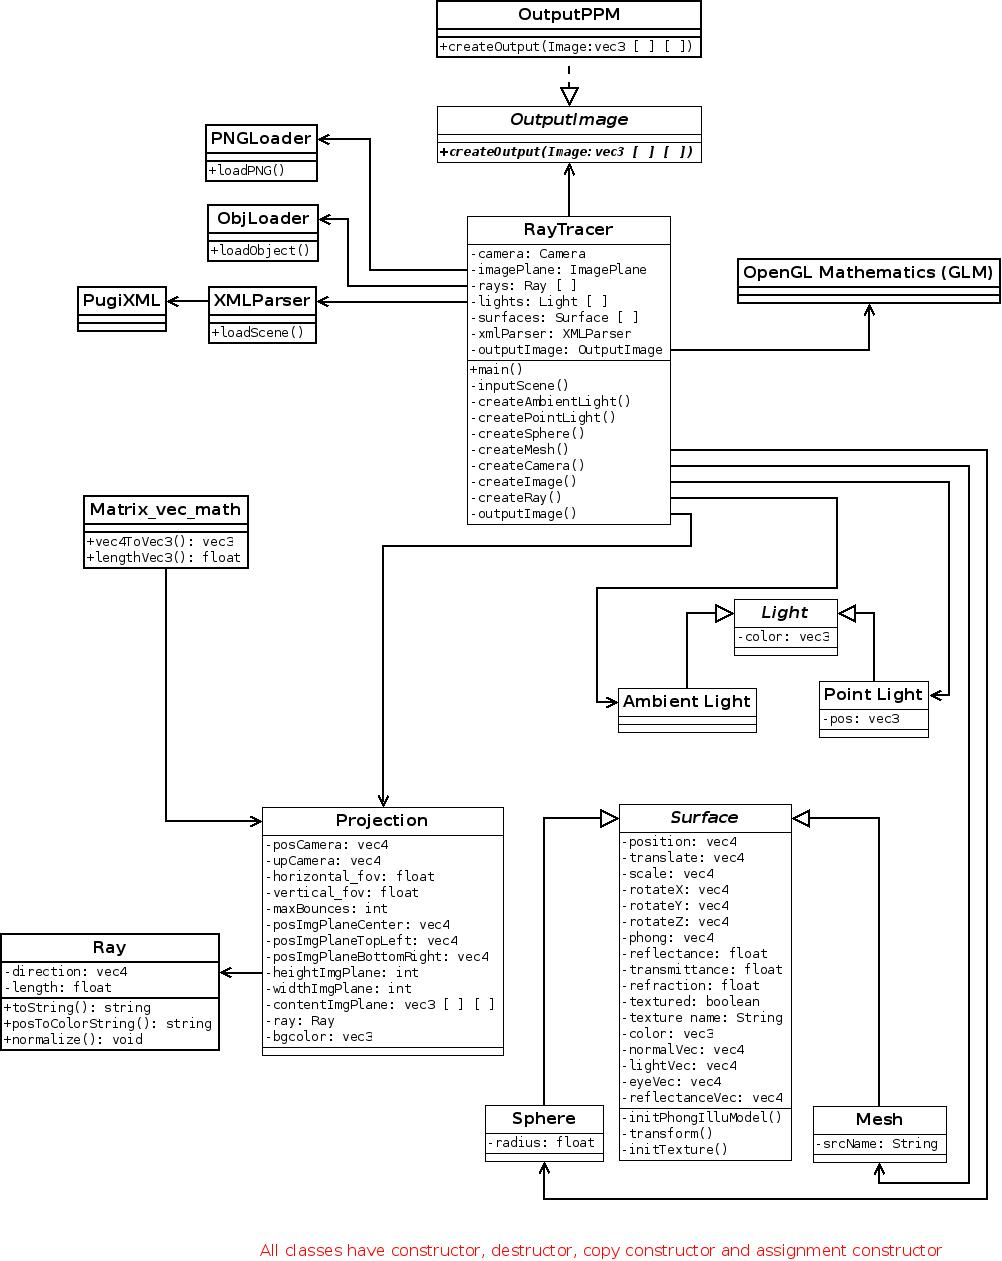
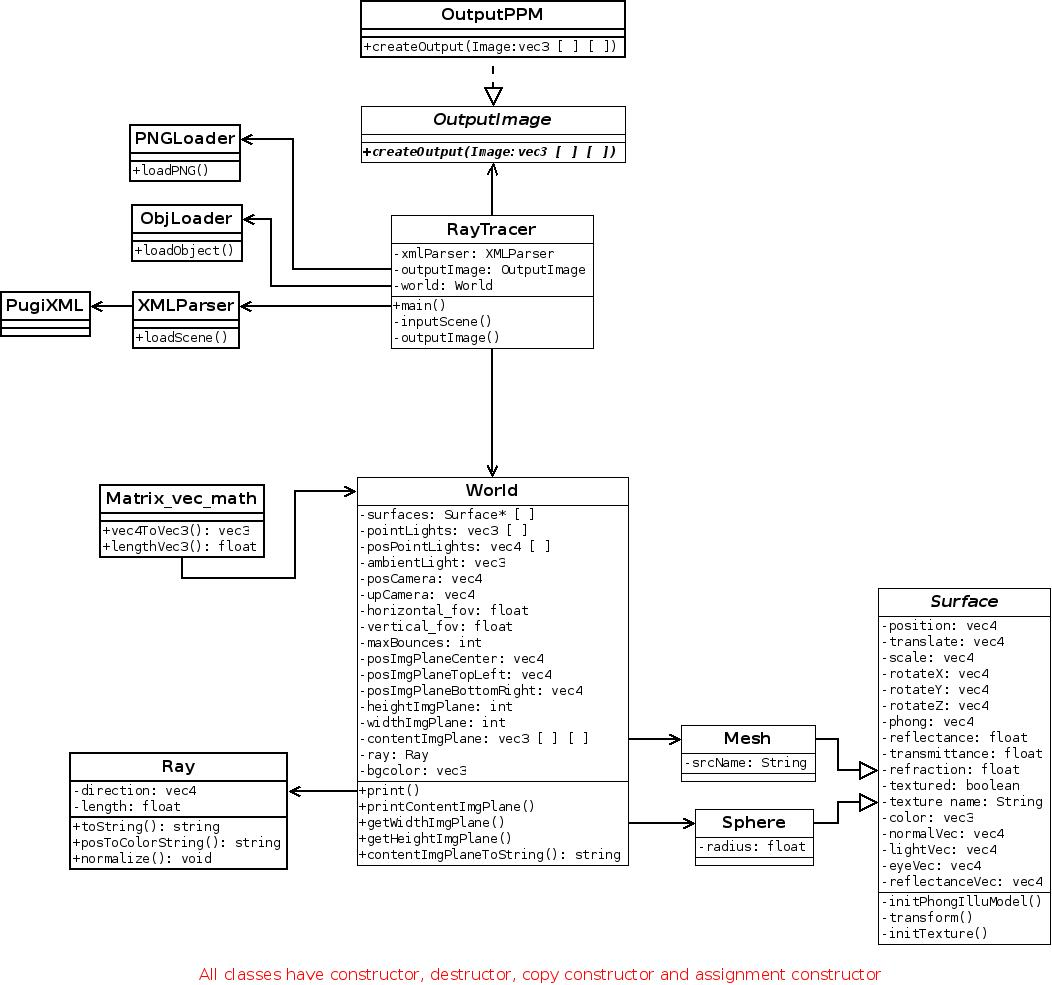
improved class structure; class Projection got renamed to World

diff --git a/ray_tracer/World.cpp b/ray_tracer/World.cpp
@@ -17,8 +17,8 @@
 #include "../libs/glm/glm/mat4x4.hpp"
 #include "../libs/glm/glm/gtc/matrix_transform.hpp"
 #include "../libs/glm/glm/gtx/string_cast.hpp"
-#include "Projection.h"
 #include "Matrix_vec_math.h"
+#include "World.h"
 using namespace std;
 
 Projection::Projection( glm::vec4 posCamera, glm::vec4 upCamera, glm::vec4 lookAtCamera, \
@@ -68,10 +68,8 @@ Projection::Projection( glm::vec4 posCamera, glm::vec4 upCamera, glm::vec4 lookA
 
 
 	//COMPUTE INTERSECTIONS WITH SPHERES
-	Ray rayNorm( glm::vec4( 2.0, 1.0, 1.0, 2.0 ) );
-	cout << rayNorm.toString() << endl;
+	Ray rayNorm( glm::vec4( 1.0, 1.0, -5.0, 1.0 ) );
 	rayNorm.normalize();
-	cout << rayNorm.toString() << endl;
 
 
 	//SHOOT RAYS TO THE CENTER OF EVERY PIXEL ON THE IMAGE PLANE

diff --git a/ray_tracer/World.h b/ray_tracer/World.h
@@ -5,8 +5,8 @@
  *      Author: Fabian Türks
  */
 
-#ifndef PROJECTION_H_
-#define PROJECTION_H_
+#ifndef WORLD_H_
+#define WORLD_H_
 
 #include <vector>
 #include <string>
@@ -53,4 +53,4 @@ public:
 
 
 
-#endif /* PROJECTION_H_ */
+#endif /* WORLD_H_ */

diff --git a/ray_tracer/RayTracer.cpp b/ray_tracer/RayTracer.cpp
@@ -10,9 +10,9 @@
 #include "RayTracer.h"
 #include "OutputPPM.h"
 #include "OutputImage.h"
-#include "Projection.h"
 #include "Sphere.h"
 #include "Mesh.h"
+#include "World.h"
 using namespace std;
 
 int main() {
